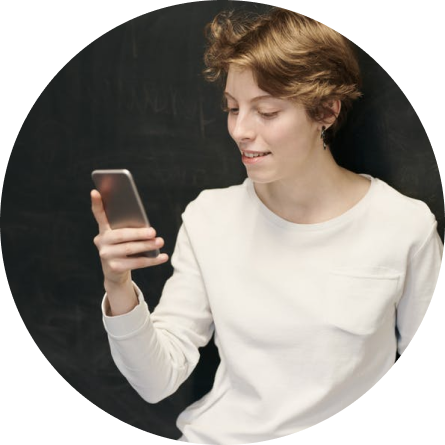
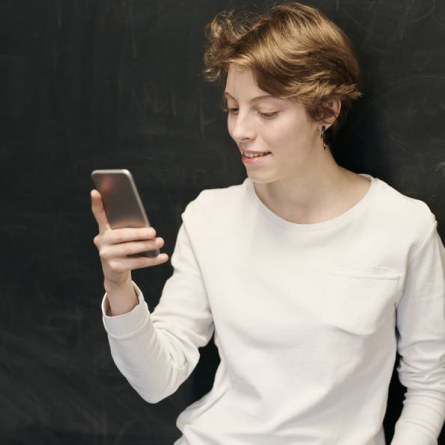
some changes

Changed region(s): [[0.5258, 0.0, 1.0, 1.0], [0.0, 0.5551, 0.4674, 1.0], [0.0, 0.0, 0.4674, 0.4674]]

diff --git a/index.html b/index.html
@@ -92,8 +92,7 @@
                     <li class="advantages__item">
                         <div class="advantages__images-wrapper">
                             <img class="advantages__img" src="./images/advantages-img1.png" alt="thre is a man with his phone" width="445" height="445">
-
-                            <img class="advantages__pointer" src="./images/advantages-pointer1.svg" alt="there is an pointer" width="740" height="150">
+                            <div class="advantages__top-layer"></div>
                         </div>
 
                         <div class="advantages__text-wrapper">
@@ -104,6 +103,48 @@
                             
                             <p class="advantages__text">
                                 The Scoot app is available with riding telemetry. This means it can show you your average speed, how long you've been using the scooter, your traveling distance, and many more things all in an easy to use app.
+                            </p>
+                            
+                            <button class="advantages__button">
+                                Learn More
+                            </button>
+                        </div>
+                    </li>
+
+                    <li class="advantages__item">
+                        <div class="advantages__images-wrapper">
+                            <img class="advantages__img" src="./images/advantages-img1.png" alt="thre is a man with his phone" width="445" height="445">
+
+                            <img class="advantages__pointer" src="./images/advantages-pointer1.svg" alt="there is an pointer" width="740" height="150">
+                        </div>
+
+                        <div class="advantages__text-wrapper">
+                            <h2 class="advantages__heading">
+                                Coming to a city near you
+                            </h2>
+                            
+                            <p class="advantages__text">
+                               Scoot is available in 4 major cities so far. We're expanding rapidly, so be sure to let us know if you want to see us in your hometown. We're aiming to let our scooters loose on 23 cities over the coming year.
+                            </p>
+                            
+                            <button class="advantages__button">
+                                Learn More
+                            </button>
+                        </div>
+                    </li>
+
+                    <li class="advantages__item">
+                        <div class="advantages__images-wrapper">
+                            <img class="advantages__img" src="./images/advantages-img1.png" alt="thre is a man with his phone" width="445" height="445">
+                        </div>
+
+                        <div class="advantages__text-wrapper">
+                            <h2 class="advantages__heading">
+                                Zero hassle payments
+                            </h2>
+                            
+                            <p class="advantages__text">
+                                Our payment is as easy as one two three. We accept most credit cards and debit cards. You can also link your PayPal account inside the app. Need to pay later? No worries! You can defer payment for up to a month.
                             </p>
                             
                             <button class="advantages__button">

diff --git a/scss/all-blocks/_advantages.scss b/scss/all-blocks/_advantages.scss
@@ -8,22 +8,56 @@
         align-items: center;
         justify-content: space-between;
         flex-direction: row-reverse;
-        margin-bottom: 155px;
+        margin-bottom: 160px;
     }
 
     &__images-wrapper {
+        max-width: 445px;
+        width: 100%;
         position: relative;
+        display: flex;
+        justify-content: center;
+        border: 2px solid red;
+        margin-left: -130px;
+        margin-right: -165px;
+
     }
     
     &__img {
+        position: relative;
         width: 445px;
         height: 445px;
+        border-radius: 50%;
+    }
+    
+    &__top-layer {
+        display: flex;
+        position: absolute;
+        border: 2px solid red;
+        width: calc(100%);
+        height: 100%;
+        top: 0px;
+        left: -130px;
+        margin-right: -165px;
+        margin-left: -130px;
+        background-image: url('./../../images/advantages-pointer1.svg'), url('./../../images/advantages-round.svg');
+        background-repeat: no-repeat;
+        background-position: calc(0%) calc(100%), calc(100% + 355px);
     }
 
     &__pointer {
+        display: none;
         position: absolute;
         bottom: 0px;
         left: -130px;
+        z-index: 2;
+
+    }
+
+    &__round {
+        position: absolute;
+        top: 0;
+        right: -509px;
     }
     
     &__text-wrapper {

diff --git a/css/main.css b/css/main.css
@@ -375,19 +375,49 @@ button:hover {
   align-items: center;
   justify-content: space-between;
   flex-direction: row-reverse;
-  margin-bottom: 155px;
+  margin-bottom: 160px;
 }
 .advantages__images-wrapper {
+  max-width: 445px;
+  width: 100%;
   position: relative;
+  display: flex;
+  justify-content: center;
+  border: 2px solid red;
+  margin-left: -130px;
+  margin-right: -165px;
 }
 .advantages__img {
+  position: relative;
   width: 445px;
   height: 445px;
+  border-radius: 50%;
+}
+.advantages__top-layer {
+  display: flex;
+  position: absolute;
+  border: 2px solid red;
+  width: 100%;
+  height: 100%;
+  top: 0px;
+  left: -130px;
+  margin-right: -165px;
+  margin-left: -130px;
+  background-image: url("./../../images/advantages-pointer1.svg"), url("./../../images/advantages-round.svg");
+  background-repeat: no-repeat;
+  background-position: 0% 100%, calc(100% + 355px);
 }
 .advantages__pointer {
+  display: none;
   position: absolute;
   bottom: 0px;
   left: -130px;
+  z-index: 2;
+}
+.advantages__round {
+  position: absolute;
+  top: 0;
+  right: -509px;
 }
 .advantages__text-wrapper {
   max-width: 445px;
